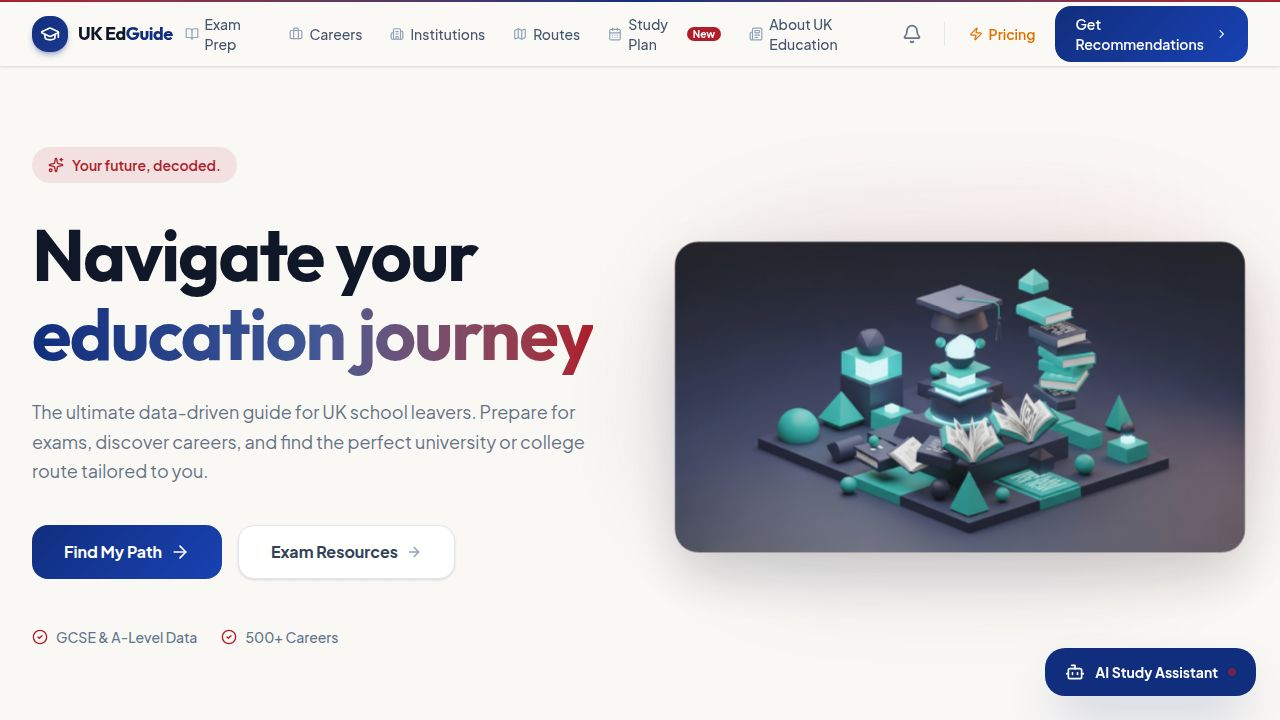
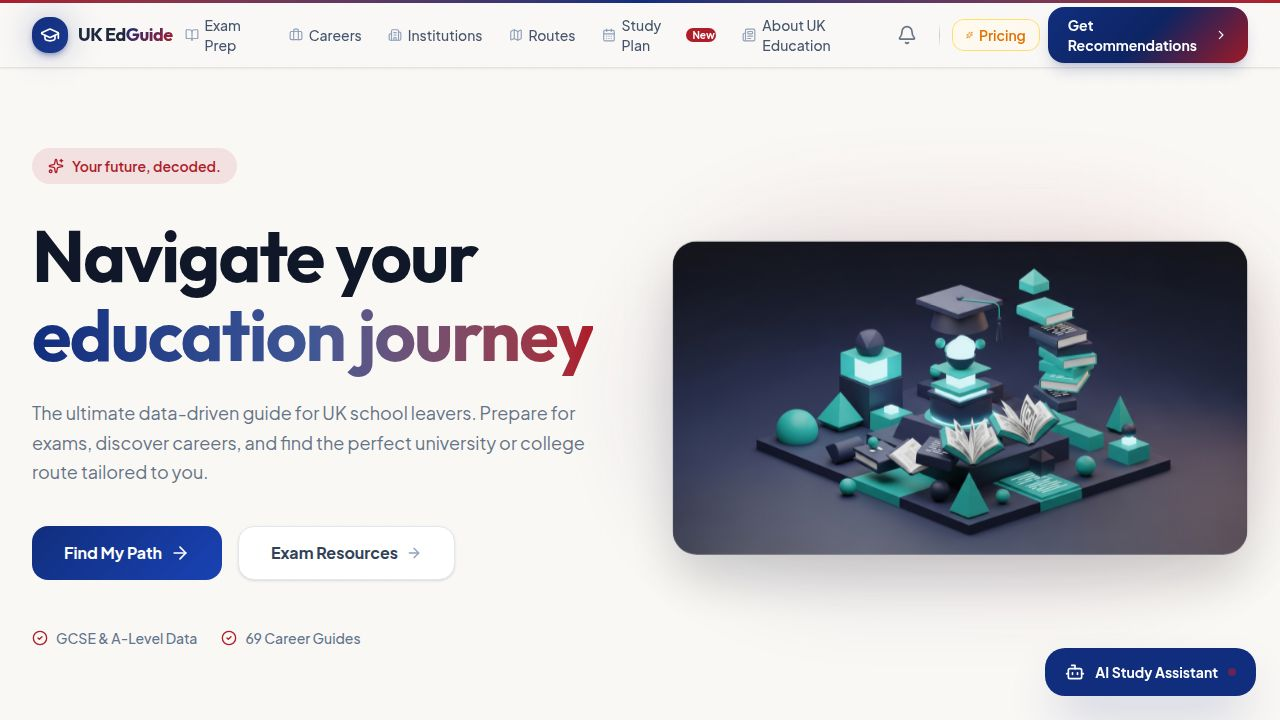
Update website to accurately reflect pricing and feature limitations
Refactors components to implement premium user checks, update feature lists, and enforce plan limits.

Replit-Commit-Author: Agent
Replit-Commit-Session-Id: 71be2178-80ac-4081-bbe0-8395f624f365
Replit-Commit-Checkpoint-Type: full_checkpoint
Replit-Commit-Event-Id: 7b113ce0-ee88-4074-bfb0-4ec58a2696ce
Replit-Commit-Screenshot-Url: https://storage.googleapis.com/screenshot-production-us-central1/df549543-32b7-49b4-84a8-8cbe87d7eb40/71be2178-80ac-4081-bbe0-8395f624f365/P4WRWdb
Replit-Helium-Checkpoint-Created: true

diff --git a/artifacts/uk-education-guide/src/pages/Timetable.tsx b/artifacts/uk-education-guide/src/pages/Timetable.tsx
@@ -3,10 +3,15 @@ import { motion, AnimatePresence } from "framer-motion";
 import {
   CalendarDays, BookOpen, ChevronRight, ChevronLeft, Clock, Coffee,
   Sun, Sunset, Moon, RotateCcw, GraduationCap, Check, Save,
-  FolderOpen, Trash2, FlaskConical, Atom, Leaf, X, Plus
+  FolderOpen, Trash2, FlaskConical, Atom, Leaf, X, Plus, Download
 } from "lucide-react";
 import { useGetSubjects } from "@workspace/api-client-react";
 import { LoadingSpinner } from "@/components/ui/LoadingSpinner";
+import { Link } from "wouter";
+
+function isPremiumUser(): boolean {
+  return localStorage.getItem("uk-edguide-premium") === "true";
+}
 
 // ─── Constants ────────────────────────────────────────────────────────────────
 
@@ -246,6 +251,10 @@ export default function Timetable() {
   const [showSaveModal, setShowSaveModal] = useState(false);
   const [savedBanner, setSavedBanner] = useState<string | null>(null);
   const [showSavedPanel, setShowSavedPanel] = useState(false);
+  const [premium] = useState(isPremiumUser);
+  const [showPdfGate, setShowPdfGate] = useState(false);
+  const [showSaveLimitGate, setShowSaveLimitGate] = useState(false);
+  const FREE_PLAN_LIMIT = 3;
 
   const filteredSubjects = allSubjects.filter(s => {
     const matchLevel = levelFilter === "All" || s.level === levelFilter || s.level === "Both";
@@ -265,6 +274,14 @@ export default function Timetable() {
 
   const toggleSubject = (id: number) => {
     setSelectedIds(prev => { const n = new Set(prev); n.has(id) ? n.delete(id) : n.add(id); return n; });
+  };
+
+  const handleSaveClick = () => {
+    if (!premium && savedPlans.length >= FREE_PLAN_LIMIT) {
+      setShowSaveLimitGate(true);
+    } else {
+      setShowSaveModal(true);
+    }
   };
 
   const handleSave = useCallback((name: string) => {
@@ -320,6 +337,94 @@ export default function Timetable() {
       {/* Save Modal */}
       <AnimatePresence>
         {showSaveModal && <SaveModal onSave={handleSave} onClose={() => setShowSaveModal(false)} />}
+      </AnimatePresence>
+
+      {/* PDF Premium Gate Modal */}
+      <AnimatePresence>
+        {showPdfGate && (
+          <motion.div
+            initial={{ opacity: 0 }}
+            animate={{ opacity: 1 }}
+            exit={{ opacity: 0 }}
+            className="fixed inset-0 z-[9999] flex items-center justify-center bg-black/50 backdrop-blur-sm px-4"
+            onClick={() => setShowPdfGate(false)}
+          >
+            <motion.div
+              initial={{ scale: 0.9, opacity: 0 }}
+              animate={{ scale: 1, opacity: 1 }}
+              exit={{ scale: 0.9, opacity: 0 }}
+              className="bg-white rounded-3xl p-8 max-w-sm w-full shadow-2xl text-center"
+              onClick={e => e.stopPropagation()}
+            >
+              <div className="w-14 h-14 bg-amber-100 rounded-2xl flex items-center justify-center mx-auto mb-4">
+                <Download className="w-7 h-7 text-amber-600" />
+              </div>
+              <h3 className="text-xl font-bold text-slate-900 mb-2">Export as PDF</h3>
+              <p className="text-sm text-slate-500 mb-6">
+                Save your study timetable as a printable PDF — available with Student Premium.
+              </p>
+              <Link href="/pricing">
+                <button
+                  onClick={() => setShowPdfGate(false)}
+                  className="w-full py-3 rounded-xl font-bold text-sm text-white mb-3 hover:opacity-90 transition-opacity"
+                  style={{ background: "linear-gradient(135deg, hsl(224,76%,28%) 0%, hsl(224,76%,40%) 100%)" }}
+                >
+                  Upgrade to Premium — £3.99/mo
+                </button>
+              </Link>
+              <button
+                onClick={() => setShowPdfGate(false)}
+                className="text-xs text-slate-400 hover:text-slate-600 transition-colors"
+              >
+                Maybe later
+              </button>
+            </motion.div>
+          </motion.div>
+        )}
+      </AnimatePresence>
+
+      {/* Save Limit Gate Modal */}
+      <AnimatePresence>
+        {showSaveLimitGate && (
+          <motion.div
+            initial={{ opacity: 0 }}
+            animate={{ opacity: 1 }}
+            exit={{ opacity: 0 }}
+            className="fixed inset-0 z-[9999] flex items-center justify-center bg-black/50 backdrop-blur-sm px-4"
+            onClick={() => setShowSaveLimitGate(false)}
+          >
+            <motion.div
+              initial={{ scale: 0.9, opacity: 0 }}
+              animate={{ scale: 1, opacity: 1 }}
+              exit={{ scale: 0.9, opacity: 0 }}
+              className="bg-white rounded-3xl p-8 max-w-sm w-full shadow-2xl text-center"
+              onClick={e => e.stopPropagation()}
+            >
+              <div className="w-14 h-14 bg-primary/10 rounded-2xl flex items-center justify-center mx-auto mb-4">
+                <Save className="w-7 h-7 text-primary" />
+              </div>
+              <h3 className="text-xl font-bold text-slate-900 mb-2">Plan limit reached</h3>
+              <p className="text-sm text-slate-500 mb-6">
+                Free accounts can save up to {FREE_PLAN_LIMIT} study plans. Upgrade to Premium for unlimited saves.
+              </p>
+              <Link href="/pricing">
+                <button
+                  onClick={() => setShowSaveLimitGate(false)}
+                  className="w-full py-3 rounded-xl font-bold text-sm text-white mb-3 hover:opacity-90 transition-opacity"
+                  style={{ background: "linear-gradient(135deg, hsl(224,76%,28%) 0%, hsl(224,76%,40%) 100%)" }}
+                >
+                  Upgrade to Premium — £3.99/mo
+                </button>
+              </Link>
+              <button
+                onClick={() => setShowSaveLimitGate(false)}
+                className="text-xs text-slate-400 hover:text-slate-600 transition-colors"
+              >
+                Maybe later
+              </button>
+            </motion.div>
+          </motion.div>
+        )}
       </AnimatePresence>
 
       {/* Hero */}
@@ -612,11 +717,17 @@ export default function Timetable() {
                 </div>
                 <div className="flex items-center gap-2 flex-wrap">
                   <button
-                    onClick={() => setShowSaveModal(true)}
+                    onClick={handleSaveClick}
                     className="group flex items-center gap-2 px-4 py-2.5 rounded-xl text-sm font-semibold text-white transition-all hover:shadow-lg hover:shadow-primary/30 hover:-translate-y-0.5"
                     style={{ background: "linear-gradient(135deg, hsl(224,76%,28%) 0%, hsl(224,76%,40%) 100%)" }}
                   >
                     <Save className="w-4 h-4" /> Save Plan
+                  </button>
+                  <button
+                    onClick={() => premium ? window.print() : setShowPdfGate(true)}
+                    className={`flex items-center gap-2 px-4 py-2.5 rounded-xl border text-sm font-semibold transition-colors ${premium ? "border-emerald-300 bg-emerald-50 text-emerald-800 hover:bg-emerald-100" : "border-amber-300 bg-amber-50 text-amber-800 hover:bg-amber-100"}`}
+                  >
+                    <Download className="w-4 h-4" /> Export PDF {!premium && <span className="text-[10px] font-bold bg-amber-400 text-white px-1.5 py-0.5 rounded-full ml-1">PRO</span>}
                   </button>
                   {savedPlans.length > 0 && (
                     <button onClick={() => setShowSavedPanel(v => !v)}

diff --git a/artifacts/uk-education-guide/src/components/AiStudyAssistant.tsx b/artifacts/uk-education-guide/src/components/AiStudyAssistant.tsx
@@ -27,6 +27,10 @@ const QUICK_PROMPTS = [
 const BASE = import.meta.env.BASE_URL.replace(/\/$/, "");
 const FREE_LIMIT = 5;
 
+function isPremiumUser(): boolean {
+  return localStorage.getItem("uk-edguide-premium") === "true";
+}
+
 function getDailyKey() {
   return `ai-chat-daily-${new Date().toISOString().slice(0, 10)}`;
 }
@@ -59,13 +63,14 @@ export default function AiStudyAssistant({ subjectName, subjectLevel, subjectCat
   const [convId, setConvId] = useState<number | null>(null);
   const [initialised, setInitialised] = useState(false);
   const [dailyUsage, setDailyUsage] = useState(getDailyUsage);
+  const [premium] = useState(isPremiumUser);
   const bottomRef = useRef<HTMLDivElement>(null);
   const inputRef = useRef<HTMLInputElement>(null);
   const abortRef = useRef<AbortController | null>(null);
 
   const contextLabel = subjectName ?? "UK Education";
-  const remaining = Math.max(0, FREE_LIMIT - dailyUsage);
-  const limitReached = dailyUsage >= FREE_LIMIT;
+  const remaining = premium ? Infinity : Math.max(0, FREE_LIMIT - dailyUsage);
+  const limitReached = !premium && dailyUsage >= FREE_LIMIT;
 
   const systemPrompt = subjectName
     ? `You are an expert UK education tutor specialising in ${subjectName} at ${subjectLevel ?? "GCSE/A-Level"} level (${subjectCategory ?? ""}). Your job is to help students revise, understand key topics, and prepare for exams. Keep answers concise, structured, and tailored to UK exam board expectations (Pearson Edexcel). When giving practice questions, include mark-scheme hints. Key topics include: ${keyTopics?.join(", ") ?? "various topics"}.`
@@ -241,9 +246,15 @@ export default function AiStudyAssistant({ subjectName, subjectLevel, subjectCat
               </div>
               <div className="flex items-center gap-2">
                 {/* Usage pill */}
-                <div className={`px-2.5 py-1 rounded-full text-xs font-bold ${remaining <= 1 ? "bg-accent text-white" : "bg-white/20 text-white"}`}>
-                  {remaining}/{FREE_LIMIT} free
-                </div>
+                {premium ? (
+                  <div className="px-2.5 py-1 rounded-full text-xs font-bold bg-amber-500 text-white flex items-center gap-1">
+                    <Zap className="w-3 h-3" /> Premium
+                  </div>
+                ) : (
+                  <div className={`px-2.5 py-1 rounded-full text-xs font-bold ${remaining <= 1 ? "bg-accent text-white" : "bg-white/20 text-white"}`}>
+                    {remaining}/{FREE_LIMIT} free
+                  </div>
+                )}
                 <button
                   onClick={reset}
                   className="p-2 rounded-xl hover:bg-white/10 transition-colors text-white/70 hover:text-white"
@@ -337,7 +348,7 @@ export default function AiStudyAssistant({ subjectName, subjectLevel, subjectCat
             ) : (
               /* Input */
               <div className="px-4 py-3 border-t border-slate-100 bg-white shrink-0">
-                {remaining <= 2 && remaining > 0 && (
+                {!premium && remaining <= 2 && remaining > 0 && (
                   <div className="flex items-center gap-1.5 mb-2 text-[10px] font-semibold text-amber-600">
                     <Zap className="w-3 h-3" />
                     {remaining} free message{remaining !== 1 ? "s" : ""} left today ·{" "}

diff --git a/artifacts/uk-education-guide/src/pages/Pricing.tsx b/artifacts/uk-education-guide/src/pages/Pricing.tsx
@@ -7,11 +7,11 @@ const MONTHLY_PRICE_ID = "price_1TFhHuADJ1aNg2Ze5IaF8u5g";
 
 const FREE_FEATURES = [
   "Browse all 267 institutions",
-  "Explore 500+ careers & salaries",
+  "Explore 69 careers & salary guides",
   "Compare study routes (A-Levels, T-Levels, BTECs)",
-  "Full GCSE & A-Level exam prep",
+  "Full GCSE & A-Level exam prep (55 subjects)",
   "5 AI Study Assistant messages per day",
-  "1 saved Study Plan",
+  "Up to 3 saved Study Plans",
   "Recruitment alerts & open days",
 ];
 
@@ -27,8 +27,7 @@ const PREMIUM_FEATURES = [
   "Unlimited AI Study Assistant messages",
   "Unlimited saved Study Plans",
   "Export Study Plans as PDF",
-  "Ad-free experience",
-  "Early access to new features",
+  "Early access to new features & subjects",
   "Priority email support",
 ];
 

diff --git a/artifacts/uk-education-guide/src/pages/Home.tsx b/artifacts/uk-education-guide/src/pages/Home.tsx
@@ -49,7 +49,7 @@ export default function Home() {
 
               <div className="mt-12 flex items-center gap-6 text-sm text-slate-500 font-medium">
                 <span className="flex items-center gap-2"><CheckCircle2 className="w-4 h-4 text-accent" /> GCSE & A-Level Data</span>
-                <span className="flex items-center gap-2"><CheckCircle2 className="w-4 h-4 text-accent" /> 500+ Careers</span>
+                <span className="flex items-center gap-2"><CheckCircle2 className="w-4 h-4 text-accent" /> 69 Career Guides</span>
               </div>
             </motion.div>
 